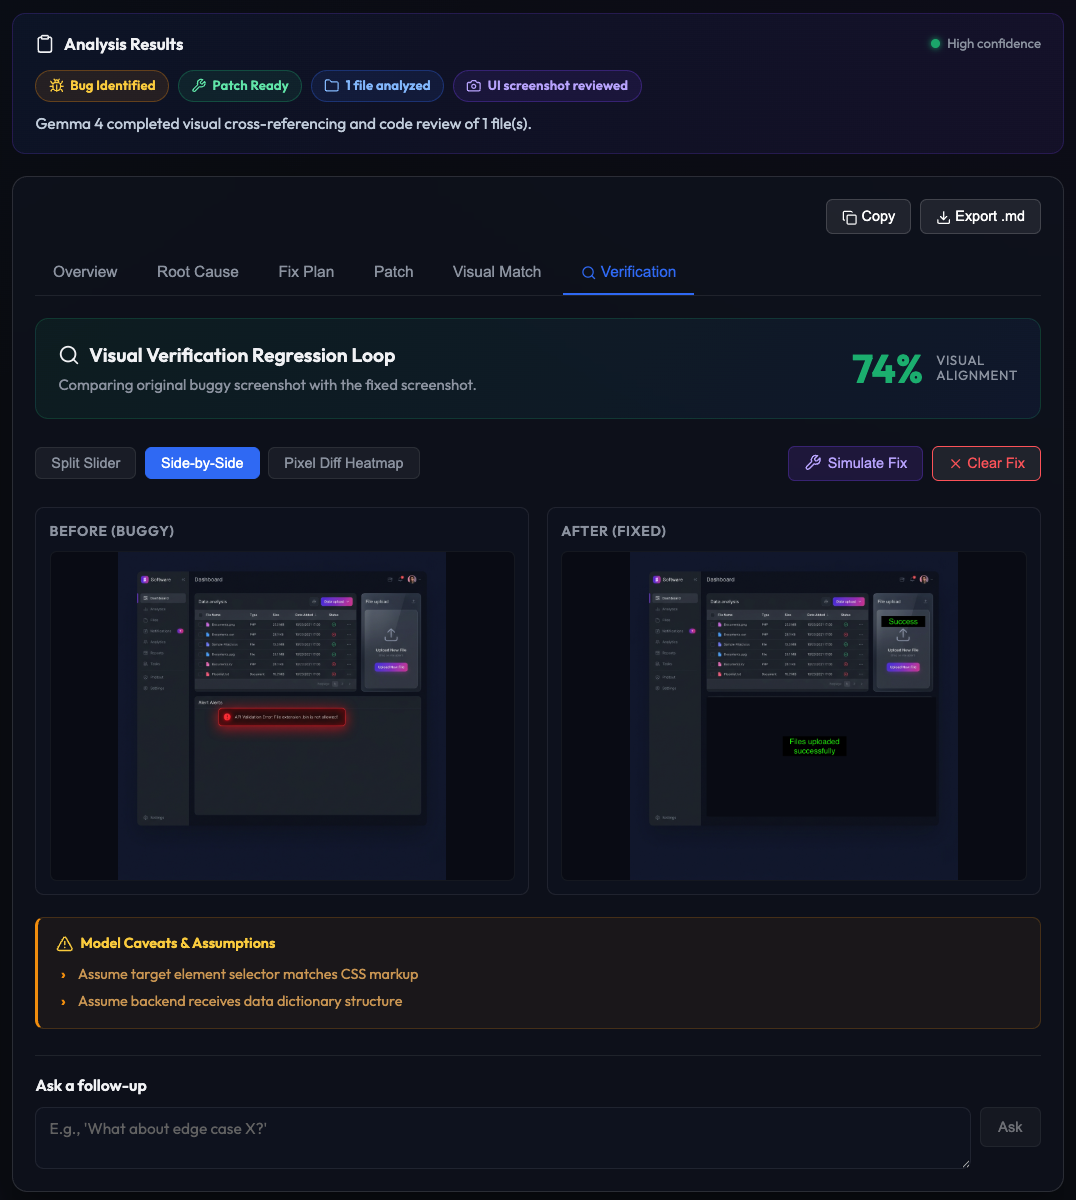
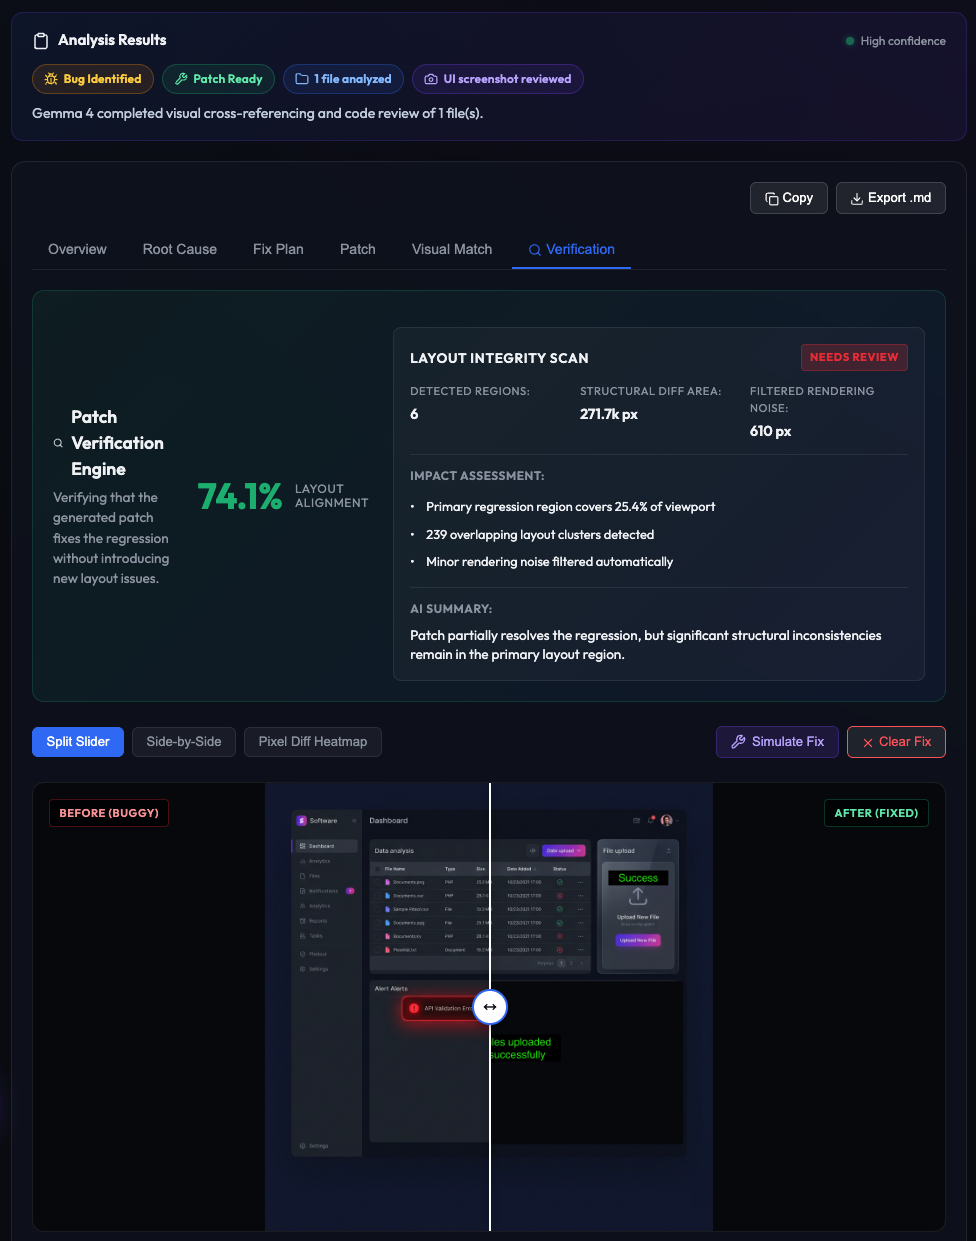
simplify diagnostics copy

diff --git a/frontend/src/App.jsx b/frontend/src/App.jsx
@@ -314,18 +314,23 @@ function FilePreviewItem({ file, onRemove, isImage }) {
 /* ========== VISUAL VERIFICATION HELPERS & COMPONENTS ========== */
 
 function getConfidenceLevel(score) {
+  if (score === undefined || score === null || isNaN(score)) return 'low';
   if (score >= 90) return 'high';
   if (score >= 75) return 'medium';
   return 'low';
 }
 
 function getConfidenceLabel(score) {
+  if (score === undefined || score === null || isNaN(score)) return 'Needs Review';
   if (score >= 90) return 'High Confidence';
   if (score >= 75) return 'Moderate Confidence';
   return 'Needs Review';
 }
 
 function formatNumber(num) {
+  if (num === undefined || num === null || isNaN(num)) {
+    return '0';
+  }
   if (num >= 1000) {
     return (num / 1000).toFixed(1) + 'k';
   }
@@ -352,9 +357,13 @@ function formatImpactReason(reason) {
 
 function deduplicateAndSummarizeReasons(reasons) {
   // Deduplicate and categorize impact reasons
+  if (!reasons || !Array.isArray(reasons)) {
+    return [];
+  }
+
   const seen = new Set();
   const unique = [];
-  
+
   for (const reason of reasons) {
     const key = reason.toLowerCase();
     if (!seen.has(key)) {
@@ -362,14 +371,14 @@ function deduplicateAndSummarizeReasons(reasons) {
       unique.push(reason);
     }
   }
-  
+
   // If we have too many, prioritize and summarize
   if (unique.length > 4) {
     const prioritized = [];
     let hasLargeRegion = false;
     let hasOverlap = false;
     let hasEdge = false;
-    
+
     for (const reason of unique) {
       if (reason.includes('Large region') && !hasLargeRegion) {
         prioritized.push(reason);
@@ -382,35 +391,35 @@ function deduplicateAndSummarizeReasons(reasons) {
         hasEdge = true;
       }
     }
-    
+
     // Add a summary if we filtered items
     if (prioritized.length < unique.length) {
       prioritized.push('Minor rendering noise filtered automatically');
     }
-    
+
     return prioritized.slice(0, 4);
   }
-  
+
   return unique;
 }
 
 function generateAISummary(score, regions, impact) {
   // Generate an AI summary based on the analysis
-  const regionCount = regions.length;
-  const hasLayoutImpact = impact.layout_geometry_affected;
-  const hasAccessibilityImpact = impact.accessibility_affected;
-  
+  const regionCount = regions?.length ?? 0;
+  const hasLayoutImpact = impact?.layout_geometry_affected ?? false;
+  const hasAccessibilityImpact = impact?.accessibility_affected ?? false;
+
   if (score >= 90) {
     return 'Patch successfully resolves the regression with minimal visual differences.';
   }
-  
+
   if (score >= 75) {
     if (hasLayoutImpact) {
       return 'Patch partially resolves the regression, but minor layout inconsistencies remain.';
     }
     return 'Patch addresses the primary regression with some residual alignment drift.';
   }
-  
+
   // Low confidence
   if (hasLayoutImpact && hasAccessibilityImpact) {
     return 'Patch partially resolves the regression, but significant structural inconsistencies remain in the primary layout region.';
@@ -955,18 +964,18 @@ function VisualVerificationView({ beforeImageFile, result }) {
             <div className="verification-analysis-stats">
               <div className="verification-analysis-stat">
                 <span className="verification-stat-label">Detected Regions:</span>
-                <span className="verification-stat-value">{diffAnalysis.regions.length}</span>
+                <span className="verification-stat-value">{diffAnalysis?.regions?.length ?? 0}</span>
               </div>
               <div className="verification-analysis-stat">
                 <span className="verification-stat-label">Structural Diff Area:</span>
-                <span className="verification-stat-value">{formatNumber(diffAnalysis.raw_pixel_count)} px</span>
+                <span className="verification-stat-value">{formatNumber(diffAnalysis?.raw_pixel_count ?? 0)} px</span>
               </div>
               <div className="verification-analysis-stat">
                 <span className="verification-stat-label">Filtered Rendering Noise:</span>
-                <span className="verification-stat-value">{formatNumber(diffAnalysis.anti_aliased_filtered)} px</span>
+                <span className="verification-stat-value">{formatNumber(diffAnalysis?.anti_aliased_filtered ?? 0)} px</span>
               </div>
             </div>
-            {diffAnalysis.impact.reasoning && diffAnalysis.impact.reasoning.length > 0 && (
+            {diffAnalysis?.impact?.reasoning && diffAnalysis.impact.reasoning.length > 0 && (
               <div className="verification-analysis-impact">
                 <span className="verification-impact-title">Impact Assessment:</span>
                 <ul className="verification-impact-list">
@@ -978,7 +987,7 @@ function VisualVerificationView({ beforeImageFile, result }) {
             )}
             <div className="verification-ai-summary">
               <span className="verification-ai-summary-label">AI Summary:</span>
-              <span className="verification-ai-summary-text">{generateAISummary(score, diffAnalysis.regions, diffAnalysis.impact)}</span>
+              <span className="verification-ai-summary-text">{generateAISummary(score, diffAnalysis?.regions ?? [], diffAnalysis?.impact ?? {})}</span>
             </div>
           </div>
         )}